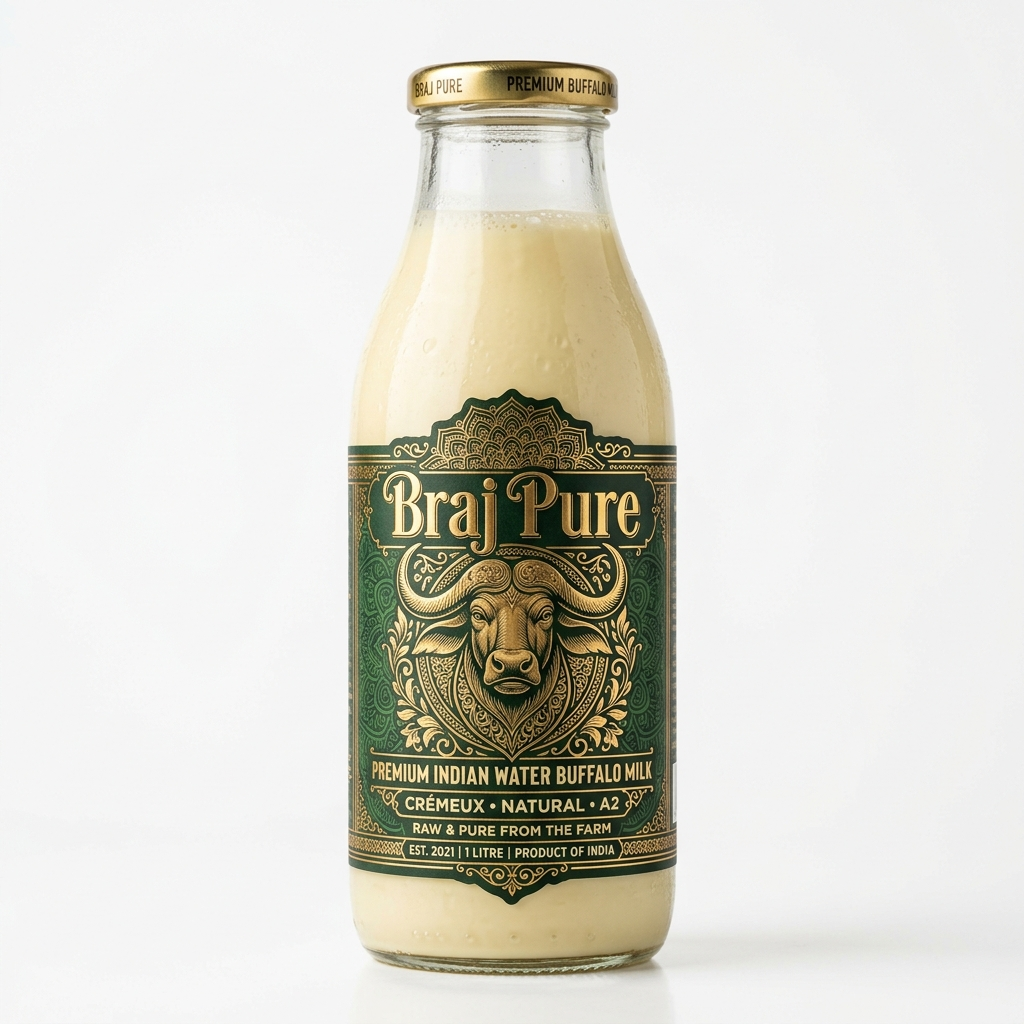
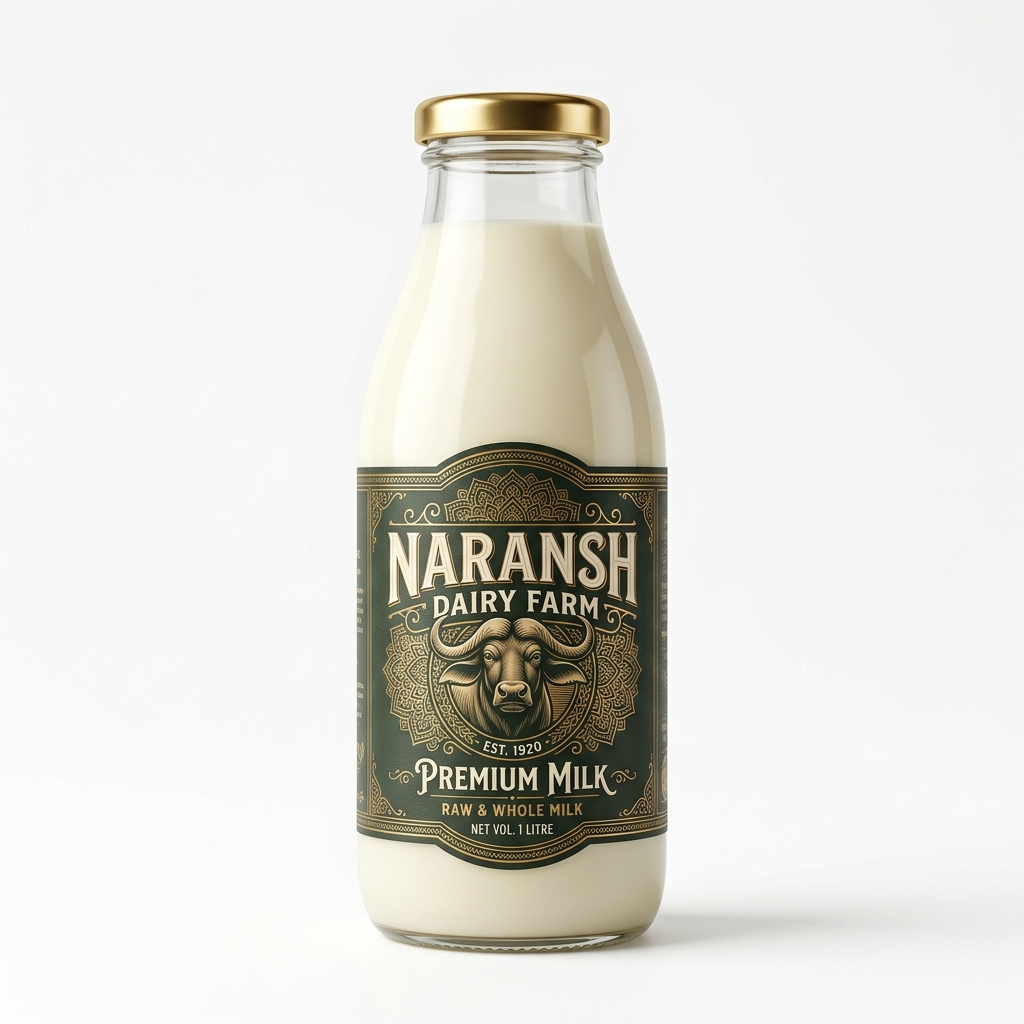
chore: rename brand from Braj Pure to Naransh Dairy Farm and update bottle images

Changed region(s): [[0.3125, 0.0312, 0.8125, 0.9688]]

diff --git a/components/Testimonials.tsx b/components/Testimonials.tsx
@@ -10,7 +10,7 @@ const testimonials = [
     rating: 5,
     initials: "PS",
     role: "Mother of 2",
-    text: "My kids refused to drink packaged milk. The moment we switched to Braj Pure, they started loving it. The taste is incomparable — creamy, naturally sweet, so fresh. It's been 6 months and we won't go back.",
+    text: "My kids refused to drink packaged milk. The moment we switched to Naransh Dairy Farm, they started loving it. The taste is incomparable — creamy, naturally sweet, so fresh. It's been 6 months and we won't go back.",
     accentColor: "#D4A017",
   },
   {
@@ -19,7 +19,7 @@ const testimonials = [
     rating: 5,
     initials: "AM",
     role: "Fitness Enthusiast",
-    text: "I've tried every protein supplement out there. Nothing comes close to Braj Pure A2 milk for post-workout recovery. Pure protein, no bloating, delivered to my door. Nature's perfect protein shake.",
+    text: "I've tried every protein supplement out there. Nothing comes close to Naransh Dairy Farm A2 milk for post-workout recovery. Pure protein, no bloating, delivered to my door. Nature's perfect protein shake.",
     accentColor: "#40916C",
   },
   {
@@ -28,7 +28,7 @@ const testimonials = [
     rating: 5,
     initials: "SA",
     role: "Senior Citizen",
-    text: "My doctor recommended A2 milk for my digestive issues. Braj Pure has been a blessing — my stomach is calmer, my energy is better, and I feel lighter after every glass. The quality is absolutely authentic.",
+    text: "My doctor recommended A2 milk for my digestive issues. Naransh Dairy Farm has been a blessing — my stomach is calmer, my energy is better, and I feel lighter after every glass. The quality is absolutely authentic.",
     accentColor: "#D4A017",
   },
   {
@@ -46,7 +46,7 @@ const testimonials = [
     rating: 5,
     initials: "KS",
     role: "Nutritionist",
-    text: "As a nutritionist, I recommend Braj Pure to all my clients. The fat profile, the A2 protein, the natural vitamins — it's clinically superior. This is what real, traditional Indian milk should taste like.",
+    text: "As a nutritionist, I recommend Naransh Dairy Farm to all my clients. The fat profile, the A2 protein, the natural vitamins — it's clinically superior. This is what real, traditional Indian milk should taste like.",
     accentColor: "#D4A017",
   },
   {
@@ -55,7 +55,7 @@ const testimonials = [
     rating: 5,
     initials: "DY",
     role: "Yoga Instructor",
-    text: "Pure milk is a cornerstone of Ayurvedic wellness. Braj Pure understands this deeply. I've been recommending it to all my students. Ethical sourcing, pristine product, perfect delivery.",
+    text: "Pure milk is a cornerstone of Ayurvedic wellness. Naransh Dairy Farm understands this deeply. I've been recommending it to all my students. Ethical sourcing, pristine product, perfect delivery.",
     accentColor: "#40916C",
   },
 ];
@@ -249,7 +249,7 @@ export default function Testimonials() {
           transition={{ delay: 0.2 }}
           style={{ fontSize: "16px", color: "rgba(240,236,216,0.4)", maxWidth: "500px", margin: "0 auto" }}
         >
-          500+ families across Mathura, Vrindavan &amp; Agra trust Braj Pure every morning.
+          500+ families across Mathura, Vrindavan &amp; Agra trust Naransh Dairy Farm every morning.
         </motion.p>
       </div>
 

diff --git a/components/Benefits.tsx b/components/Benefits.tsx
@@ -37,7 +37,7 @@ const benefits = [
     title: "Stronger Immunity",
     short: "Natural immunoglobulins & antibodies",
     detail:
-      "Braj Pure A2 milk contains natural immunoglobulins and colostrum-like proteins that train and boost your immune system. Health-conscious adults report fewer seasonal illnesses within weeks of daily consumption.",
+      "Naransh Dairy Farm A2 milk contains natural immunoglobulins and colostrum-like proteins that train and boost your immune system. Health-conscious adults report fewer seasonal illnesses within weeks of daily consumption.",
     accentColor: "#D4A017",
   },
   {
@@ -49,7 +49,7 @@ const benefits = [
     title: "Happy Gut Microbiome",
     short: "No BCM-7 peptide",
     detail:
-      "A1 milk releases BCM-7 — an opioid peptide that disrupts gut microbiome and causes inflammation. A2 milk doesn't. Switch to Braj Pure and notice reduced bloating, better digestion, and improved gut health within days.",
+      "A1 milk releases BCM-7 — an opioid peptide that disrupts gut microbiome and causes inflammation. A2 milk doesn't. Switch to Naransh Dairy Farm and notice reduced bloating, better digestion, and improved gut health within days.",
     accentColor: "#40916C",
   },
   {
@@ -61,7 +61,7 @@ const benefits = [
     title: "Muscle Growth & Recovery",
     short: "Complete amino acid profile",
     detail:
-      "With 8g of protein per 250ml and a complete essential amino acid profile, Braj Pure A2 milk is the ideal post-workout drink. It's the natural, clean protein that bodybuilders and athletes swear by.",
+      "With 8g of protein per 250ml and a complete essential amino acid profile, Naransh Dairy Farm A2 milk is the ideal post-workout drink. It's the natural, clean protein that bodybuilders and athletes swear by.",
     accentColor: "#D4A017",
   },
   {
@@ -130,7 +130,7 @@ export default function Benefits() {
               letterSpacing: "-0.3px",
             }}
           >
-            What Braj Pure does{" "}
+            What Naransh Dairy Farm does{" "}
             <span className="gradient-text-gold">for your body</span>
           </motion.h2>
           <motion.p

diff --git a/components/Footer.tsx b/components/Footer.tsx
@@ -131,7 +131,7 @@ export default function Footer() {
               Ready to taste the difference?
             </div>
             <div style={{ fontSize: "14px", color: "rgba(240,236,216,0.4)" }}>
-              Join 500+ families who start their mornings with Braj Pure.
+              Join 500+ families who start their mornings with Naransh Dairy Farm.
             </div>
           </div>
           <Link href="/order" className="btn-gold" style={{ textDecoration: "none", whiteSpace: "nowrap", position: "relative", zIndex: 1 }}>
@@ -166,7 +166,7 @@ export default function Footer() {
               </div>
               <div>
                 <div style={{ fontFamily: "'Cinzel', serif", fontWeight: 800, fontSize: "18px", color: "#F0ECD8", lineHeight: 1, letterSpacing: "1px" }}>
-                  Braj Pure
+                  Naransh Dairy Farm
                 </div>
                 <div style={{ fontSize: "9px", fontWeight: 600, letterSpacing: "3px", textTransform: "uppercase", color: "rgba(212,160,23,0.5)", marginTop: "3px" }}>
                   A2 Desi Cow Milk
@@ -258,7 +258,7 @@ export default function Footer() {
           gap: "14px",
         }}>
           <div style={{ fontSize: "12px", color: "rgba(240,236,216,0.25)" }}>
-            © 2025 Braj Pure. All rights reserved. Crafted with care in Mathura, UP.
+            © 2025 Naransh Dairy Farm. All rights reserved. Crafted with care in Mathura, UP.
           </div>
           <div style={{ display: "flex", gap: "8px", flexWrap: "wrap" }}>
             {certBadges.map((badge) => (

diff --git a/components/Products.tsx b/components/Products.tsx
@@ -76,7 +76,7 @@ const products = [
     badgeGradient: "linear-gradient(135deg, #7A5C10, #D4A017)",
     badgeTextColor: "#F0ECD8",
     desc: "Hand-churned using the Vedic Bilona method. Pure golden liquid gold from Gir cows. Authentic aroma and rich texture.",
-    features: ["Bilona method Ghee", "High smoke point", "Boosts immunity", "Braj Pure Branding"],
+    features: ["Bilona method Ghee", "High smoke point", "Boosts immunity", "Naransh Dairy Farm Branding"],
     image: "/ghee.png",
     accentColor: "#D4A017",
     bg: "linear-gradient(135deg, rgba(212,160,23,0.08), rgba(212,160,23,0.02))",
@@ -91,7 +91,7 @@ const products = [
     badgeGradient: "linear-gradient(135deg, #1B4332, #D4A017)",
     badgeTextColor: "#F0ECD8",
     desc: "The large family pack of our premium Bilona Ghee. Traditional health in every drop, preserved in glass.",
-    features: ["Bilona method Ghee", "High smoke point", "Best for cooking", "Braj Pure Branding"],
+    features: ["Bilona method Ghee", "High smoke point", "Best for cooking", "Naransh Dairy Farm Branding"],
     image: "/ghee.png",
     accentColor: "#D4A017",
     bg: "linear-gradient(135deg, rgba(212,160,23,0.08), rgba(212,160,23,0.02))",
@@ -289,7 +289,7 @@ export default function Products() {
                 >
                   <Image
                     src={p.image}
-                    alt={`Braj Pure ${p.name} ${p.size}`}
+                    alt={`Naransh Dairy Farm ${p.name} ${p.size}`}
                     fill
                     style={{ objectFit: "cover" }}
                   />

diff --git a/app/layout.tsx b/app/layout.tsx
@@ -5,12 +5,12 @@ import Footer from "@/components/Footer";
 import PWAInstall from "@/components/PWAInstall";
 
 export const metadata: Metadata = {
-  title: "Braj Pure | A2 Desi Cow Milk — Pure. Natural. Powerful.",
+  title: "Naransh Dairy Farm | A2 Desi Cow Milk — Pure. Natural. Powerful.",
   description:
-    "Braj Pure delivers farm-fresh A2 Desi Cow Milk straight to your door in Mathura, Vrindavan & Agra. No additives, no preservatives — just 100% pure goodness from our Gir cows.",
-  keywords: "A2 milk, desi cow milk, Braj Pure, pure milk, Mathura milk, Vrindavan, organic milk, health milk",
+    "Naransh Dairy Farm delivers farm-fresh A2 Desi Cow Milk straight to your door in Mathura, Vrindavan & Agra. No additives, no preservatives — just 100% pure goodness from our Gir cows.",
+  keywords: "A2 milk, desi cow milk, Naransh Dairy Farm, pure milk, Mathura milk, Vrindavan, organic milk, health milk",
   openGraph: {
-    title: "Braj Pure | A2 Desi Cow Milk",
+    title: "Naransh Dairy Farm | A2 Desi Cow Milk",
     description: "Farm-fresh A2 Desi Cow Milk delivered daily. Pure, natural, unadulterated.",
     type: "website",
   },

diff --git a/components/Story.tsx b/components/Story.tsx
@@ -67,7 +67,7 @@ export default function Story() {
             }}>
               <Image
                 src="/farm-cow.png"
-                alt="Braj Pure farm — Gir cows grazing in Brij region"
+                alt="Naransh Dairy Farm farm — Gir cows grazing in Brij region"
                 fill
                 style={{ objectFit: "cover" }}
               />
@@ -134,7 +134,7 @@ export default function Story() {
             <div className="divider-gold" />
 
             <p style={{ fontSize: "16px", lineHeight: 1.85, color: "rgba(240,236,216,0.5)", marginBottom: "18px", marginTop: "22px" }}>
-              Braj Pure was born from a simple belief — that the families of Mathura,
+              Naransh Dairy Farm was born from a simple belief — that the families of Mathura,
               Vrindavan and Agra deserve milk that is as pure as the holy land itself.
               We are farmers first, and businessmen second.
             </p>

diff --git a/components/Order.tsx b/components/Order.tsx
@@ -56,7 +56,7 @@ export default function Order() {
     const freeTrialText = isActuallyMilk ? `\n\nPlease confirm my 3-day FREE TRIAL! 🙏` : `\n\nPlease confirm my order! 🙏`;
     
     const msg = encodeURIComponent(
-      `🥛 *New Braj Pure Order*\n\n` +
+      `🥛 *New Naransh Dairy Farm Order*\n\n` +
       `👤 Name: ${formData.name}\n` +
       `📱 Phone: ${formData.phone}\n` +
       `📍 Address: ${formData.address}\n` +
@@ -159,7 +159,7 @@ export default function Order() {
               letterSpacing: "-0.3px",
             }}
           >
-            Start your Braj Pure journey
+            Start your Naransh Dairy Farm journey
             <span
               style={{
                 display: "block",

diff --git a/app/story/page.tsx b/app/story/page.tsx
@@ -2,9 +2,9 @@ import type { Metadata } from "next";
 import Story from "@/components/Story";
 
 export const metadata: Metadata = {
-  title: "Our Story | Braj Pure — From the Sacred Land of Brij",
+  title: "Our Story | Naransh Dairy Farm — From the Sacred Land of Brij",
   description:
-    "Discover how Braj Pure was born from a simple belief — that families deserve milk as pure as the holy land of Mathura & Vrindavan. Learn about our Gir cows and farm-to-doorstep journey.",
+    "Discover how Naransh Dairy Farm was born from a simple belief — that families deserve milk as pure as the holy land of Mathura & Vrindavan. Learn about our Gir cows and farm-to-doorstep journey.",
 };
 
 export default function StoryPage() {

diff --git a/app/order/page.tsx b/app/order/page.tsx
@@ -2,9 +2,9 @@ import type { Metadata } from "next";
 import Order from "@/components/Order";
 
 export const metadata: Metadata = {
-  title: "Order Now | Braj Pure — 3 Days Free Trial",
+  title: "Order Now | Naransh Dairy Farm — 3 Days Free Trial",
   description:
-    "Start your Braj Pure journey today with a 3-day free trial. No payment needed. Fill the form and get fresh A2 Desi Cow Milk delivered daily to your doorstep in Mathura, Vrindavan & Agra.",
+    "Start your Naransh Dairy Farm journey today with a 3-day free trial. No payment needed. Fill the form and get fresh A2 Desi Cow Milk delivered daily to your doorstep in Mathura, Vrindavan & Agra.",
 };
 
 export default function OrderPage() {

diff --git a/components/PWAInstall.tsx b/components/PWAInstall.tsx
@@ -108,7 +108,7 @@ export default function PWAInstall() {
                 </svg>
               </div>
               <div style={{ textAlign: "left" }}>
-                <div style={{ fontSize: "14px", fontWeight: 700, lineHeight: 1.2 }}>Install Braj Pure App</div>
+                <div style={{ fontSize: "14px", fontWeight: 700, lineHeight: 1.2 }}>Install Naransh Dairy Farm App</div>
                 <div style={{ fontSize: "11px", opacity: 0.7 }}>Order faster & track history</div>
               </div>
               <button 

diff --git a/app/products/page.tsx b/app/products/page.tsx
@@ -3,7 +3,7 @@ import Products from "@/components/Products";
 import Benefits from "@/components/Benefits";
 
 export const metadata: Metadata = {
-  title: "Products | Braj Pure — Fresh A2 Desi Cow Milk Daily",
+  title: "Products | Naransh Dairy Farm — Fresh A2 Desi Cow Milk Daily",
   description:
     "Choose your daily delivery of pure A2 Desi Cow Milk — 500ml or 1 Litre. From purebred Gir cows, delivered fresh every morning. Start your 3-day free trial today.",
 };

diff --git a/app/manifest.ts b/app/manifest.ts
@@ -2,8 +2,8 @@ import type { MetadataRoute } from 'next'
 
 export default function manifest(): MetadataRoute.Manifest {
   return {
-    name: 'Braj Pure - Premium Dairy',
-    short_name: 'Braj Pure',
+    name: 'Naransh Dairy Farm - Premium Dairy',
+    short_name: 'Naransh Dairy Farm',
     description: 'Pure Desi Cow & Buffalo Milk Delivered Fresh',
     start_url: '/',
     display: 'standalone',
